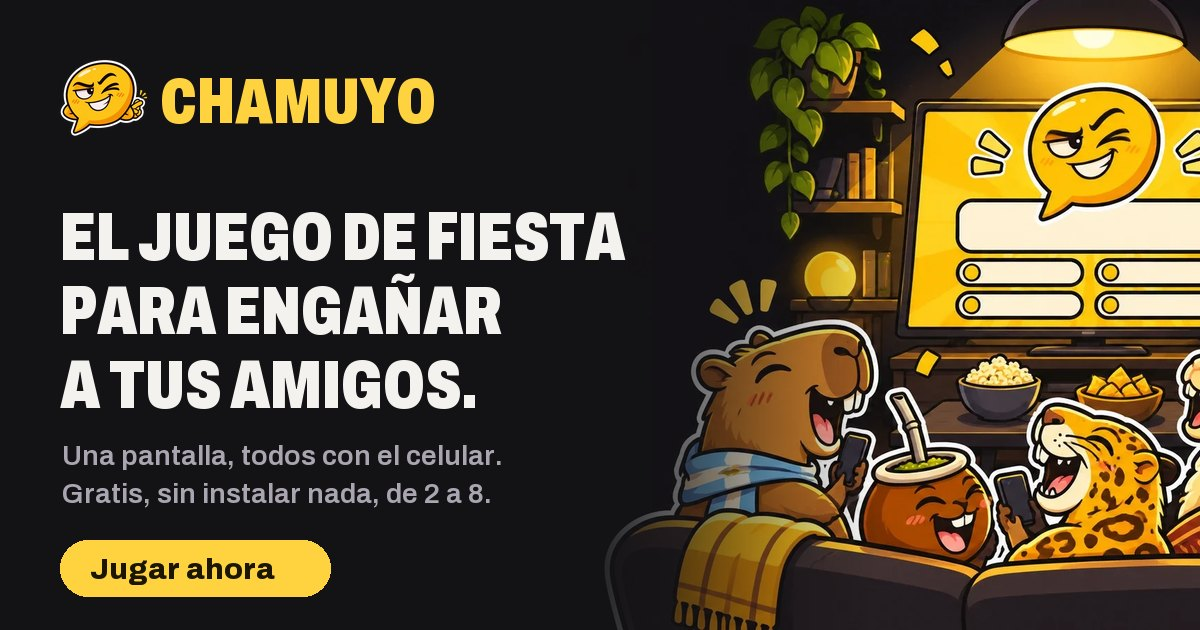
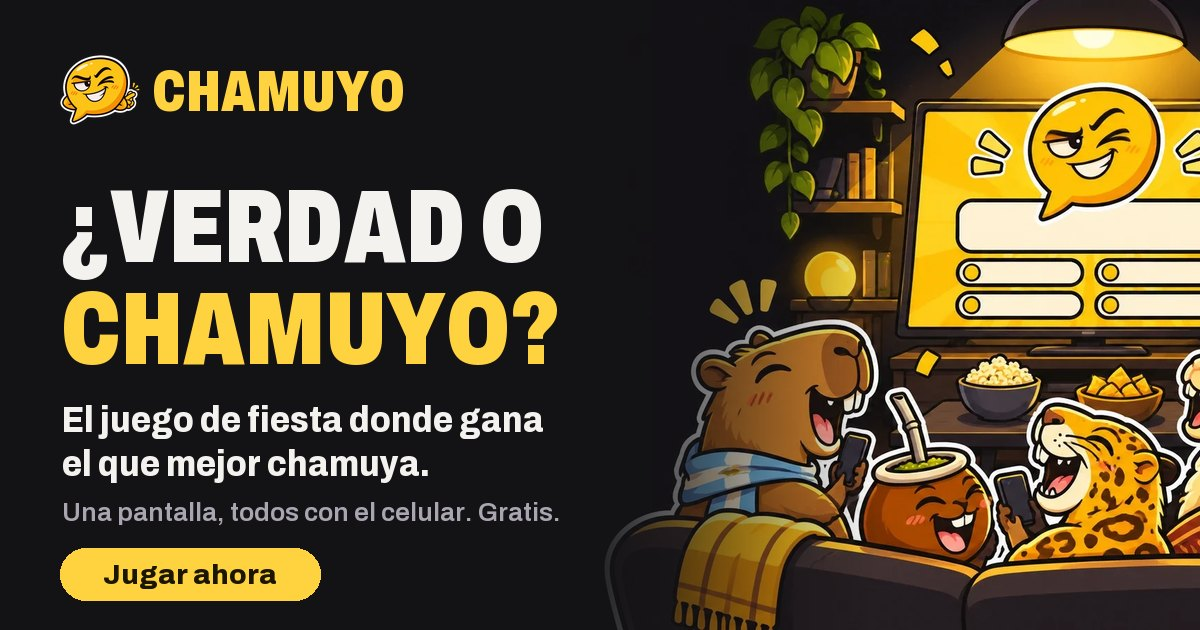
Nuevo lema: ¿verdad o chamuyo? y enlaces a Instagram

Changed region(s): [[0.0308, 0.3016, 0.5242, 0.9651], [0.0308, 0.0905, 0.37, 0.2111]]

diff --git a/src/app/i18n.ts b/src/app/i18n.ts
@@ -3,24 +3,26 @@ import { computed, signal } from '@angular/core';
 export type Idioma = 'es' | 'en';
 
 const es = {
-  lema: 'El juego de fiesta para engañar a tus amigos.',
+  lema: '¿Verdad o chamuyo?',
+  sublema: 'El juego de fiesta donde gana el que mejor chamuya.',
   bajada: 'Una pantalla para todos y cada uno juega desde su celular. Sin instalar nada, de 2 a 8 personas.',
   crearSala: 'Crear sala',
   tengoCodigo: 'Tengo un código',
   comoSeJuega: 'Cómo se juega',
   paso1: 'Abrí una sala en la tele o la compu. También funciona compartiendo pantalla en una videollamada.',
   paso2: 'Cada uno entra desde su celular con el código o el QR.',
-  paso3: 'Escribí mentiras creíbles, votá la verdad y reíte de las respuestas de los demás.',
+  paso3: 'Inventá respuestas creíbles, encontrá la verdad y reíte con las ocurrencias de los demás.',
   modoChamuyo: 'Chamuyo',
-  modoChamuyoDesc: 'Un dato real con un hueco. Inventá una respuesta falsa que engañe a todos y encontrá la verdadera.',
+  modoChamuyoDesc: 'Un dato real con un hueco. Inventá una respuesta que parezca verdad y encontrá la verdadera.',
   modoOcurrencias: 'Ocurrencias',
   modoOcurrenciasDesc: 'Una consigna, todos responden y se vota la más graciosa.',
   modoMixto: 'Mixto',
   modoMixtoDesc: 'Una ronda de cada, alternadas.',
   codigoAbierto: 'Código abierto',
+  seguinos: 'Seguinos en Instagram',
   elencoTitulo: 'Elegí tu chamuyero',
   elencoBajada: 'Tocá uno para ver la cara que pone cuando lo engañan.',
-  cierre: 'Esta noche, el que chamuya mejor gana.',
+  cierre: '¿Quién chamuya mejor en tu grupo?',
   hechoPor: 'Hecho por',
   // Anfitrión
   abriendo: 'Abriendo la sala…',
@@ -96,24 +98,26 @@ const es = {
 };
 
 const en: typeof es = {
-  lema: 'The party game where you fool your friends.',
+  lema: 'Truth or bluff?',
+  sublema: 'The party game where the best bluffer wins.',
   bajada: 'One shared screen, everyone plays on their phone. Nothing to install, 2 to 8 players.',
   crearSala: 'Create room',
   tengoCodigo: 'I have a code',
   comoSeJuega: 'How to play',
   paso1: 'Open a room on a TV or computer. Sharing your screen on a video call works too.',
   paso2: 'Everyone joins from their phone with the code or the QR.',
-  paso3: 'Write believable lies, vote for the truth and laugh at everyone else’s answers.',
+  paso3: 'Make up believable answers, find the truth and laugh at everyone else’s ideas.',
   modoChamuyo: 'Chamuyo',
-  modoChamuyoDesc: 'A real fact with a blank. Make up a fake answer that fools everyone, then find the real one.',
+  modoChamuyoDesc: 'A real fact with a blank. Make up an answer that sounds true, then find the real one.',
   modoOcurrencias: 'Wisecracks',
   modoOcurrenciasDesc: 'One prompt, everyone answers, vote for the funniest.',
   modoMixto: 'Mixed',
   modoMixtoDesc: 'One round of each, taking turns.',
   codigoAbierto: 'Open source',
+  seguinos: 'Follow us on Instagram',
   elencoTitulo: 'Pick your liar',
   elencoBajada: 'Tap one to see the face it makes when it gets fooled.',
-  cierre: 'Tonight, the best liar wins.',
+  cierre: 'Who is the best bluffer in your group?',
   hechoPor: 'Made by',
   abriendo: 'Opening the room…',
   entraEn: 'On your phone, go to',

diff --git a/src/index.html b/src/index.html
@@ -2,14 +2,14 @@
 <html lang="es">
 <head>
   <meta charset="utf-8">
-  <title>Chamuyo · El juego de fiesta para engañar a tus amigos</title>
+  <title>Chamuyo · ¿Verdad o chamuyo? El juego de fiesta</title>
   <base href="/">
   <meta name="viewport" content="width=device-width, initial-scale=1, viewport-fit=cover">
-  <meta name="description" content="Juego de fiesta gratis en el navegador: una pantalla para todos y cada uno juega desde su celular. Inventá mentiras, encontrá la verdad. De 2 a 8 personas, en español e inglés.">
+  <meta name="description" content="¿Verdad o chamuyo? El juego de fiesta donde gana el que mejor chamuya: una pantalla para todos y cada uno juega desde su celular. Gratis, sin instalar nada, de 2 a 8 personas, en español e inglés.">
   <meta name="theme-color" content="#131215">
   <meta property="og:type" content="website">
-  <meta property="og:title" content="Chamuyo · El juego de fiesta para engañar a tus amigos">
-  <meta property="og:description" content="Una pantalla, todos con el celular. Inventá mentiras creíbles y encontrá la verdad. Gratis y sin instalar nada.">
+  <meta property="og:title" content="Chamuyo · ¿Verdad o chamuyo?">
+  <meta property="og:description" content="El juego de fiesta donde gana el que mejor chamuya. Una pantalla, todos con el celular. Gratis y sin instalar nada.">
   <meta property="og:image" content="https://nahuelbenitezs.github.io/chamuyo/og.jpg">
   <meta property="og:url" content="https://nahuelbenitezs.github.io/chamuyo/">
   <meta name="twitter:card" content="summary_large_image">

diff --git a/src/app/pantallas/inicio.html b/src/app/pantallas/inicio.html
@@ -8,6 +8,7 @@
       </a>
       <nav class="nav">
         <a href="#como">{{ t().comoSeJuega }}</a>
+        <a href="https://www.instagram.com/chamuyo.juego/" target="_blank" rel="noopener" aria-label="Instagram @chamuyo.juego"><i class="ph-bold ph-instagram-logo"></i> Instagram</a>
         <a href="https://github.com/nahuelbenitezs/chamuyo" target="_blank" rel="noopener"><i class="ph-bold ph-github-logo"></i> GitHub</a>
         <button class="icono-boton" type="button" (click)="idiomaContrario()" [attr.aria-label]="idioma() === 'es' ? 'English' : 'Español'">
           <span class="idioma">{{ idioma() === 'es' ? 'EN' : 'ES' }}</span>
@@ -16,6 +17,7 @@
     </header>
     <div class="texto">
       <h1 class="titular">{{ t().lema }}</h1>
+      <p class="sublema">{{ t().sublema }}</p>
       <p class="bajada">{{ t().bajada }}</p>
       <div class="ctas">
         <button class="boton grande" type="button" (click)="crear.emit()"><i class="ph-bold ph-television-simple"></i> {{ t().crearSala }}</button>
@@ -90,6 +92,7 @@
   </section>
 
   <footer class="pie">
+    <span>{{ t().seguinos }} · <a href="https://www.instagram.com/chamuyo.juego/" target="_blank" rel="noopener">@chamuyo.juego</a></span>
     <span>{{ t().codigoAbierto }} · <a href="https://github.com/nahuelbenitezs/chamuyo" target="_blank" rel="noopener">github.com/nahuelbenitezs/chamuyo</a></span>
     <span>{{ t().hechoPor }} <a href="https://github.com/nahuelbenitezs" target="_blank" rel="noopener">Nahuel Benítez</a></span>
   </footer>

diff --git a/src/app/pantallas/inicio.css b/src/app/pantallas/inicio.css
@@ -101,8 +101,19 @@
   animation: entrar 0.7s var(--ease) both;
 }
 
+.sublema {
+  margin: 0.9rem 0 0;
+  max-width: 24ch;
+  font-size: clamp(1.4rem, 2.1vw, 1.9rem);
+  font-weight: 800;
+  font-stretch: 85%;
+  line-height: 1.15;
+  color: var(--acento);
+  animation: entrar 0.7s var(--ease) 0.05s both;
+}
+
 .bajada {
-  margin: 1.25rem 0 2rem;
+  margin: 1rem 0 2rem;
   max-width: 40ch;
   font-size: clamp(1.1rem, 1.4vw, 1.3rem);
   color: var(--tenue);

diff --git a/src/app/juego/tarjeta.ts b/src/app/juego/tarjeta.ts
@@ -168,6 +168,9 @@ export async function dibujarTarjeta(r: Resumen): Promise<Blob> {
   ctx.fillText(textos.jugaGratis, W / 2, H - 186);
   fuente(ctx, 900, 46, true);
   ctx.fillText(URL_JUEGO, W / 2, H - 134);
+  ctx.fillStyle = COLOR.tenue;
+  fuente(ctx, 700, 32);
+  ctx.fillText('Instagram @chamuyo.juego', W / 2, H - 48);
 
   return new Promise((ok, mal) => lienzo.toBlob((b) => (b ? ok(b) : mal(new Error('sin imagen'))), 'image/png'));
 }

diff --git a/README.md b/README.md
@@ -1,10 +1,10 @@
 <div align="center">
 
-<a href="https://nahuelbenitezs.github.io/chamuyo/"><img src="public/og.jpg" alt="Chamuyo: the party game where you fool your friends" width="100%" /></a>
+<a href="https://nahuelbenitezs.github.io/chamuyo/"><img src="public/og.jpg" alt="Chamuyo: truth or bluff? The party game where the best bluffer wins" width="100%" /></a>
 
 # Chamuyo
 
-**The party game where you fool your friends.**
+**Truth or bluff?** The party game where the best bluffer wins.
 One shared screen, everyone plays on their phone. 2 to 8 players, in English or Spanish. Free, nothing to install, no accounts.
 
 **[▶ Play now](https://nahuelbenitezs.github.io/chamuyo/)** · [Español](#español)
@@ -15,7 +15,7 @@ One shared screen, everyone plays on their phone. 2 to 8 players, in English or 
 
 1. **Open a room** on a TV or a computer. Sharing your screen on a video call works too.
 2. **Join from your phone** by scanning the QR code or typing the 4-letter code.
-3. **Fool everyone.** Write believable lies, vote for the truth and laugh at everyone else's answers.
+3. **Bluff your way to the top.** Make up believable answers, find the truth and laugh at everyone else's ideas.
 
 ### Modes
 
@@ -50,13 +50,13 @@ All the content lives in [`src/app/contenido`](src/app/contenido), one file per 
 
 ## License
 
-[MIT](LICENSE). Made by [Nahuel Benítez](https://github.com/nahuelbenitezs).
+[MIT](LICENSE). Made by [Nahuel Benítez](https://github.com/nahuelbenitezs). Follow the game on [Instagram](https://www.instagram.com/chamuyo.juego/).
 
 ---
 
 ## Español
 
-**El juego de fiesta para engañar a tus amigos.** Una pantalla para todos y cada uno juega desde su celular. De 2 a 8 personas, en español o inglés. Gratis, sin instalar nada y sin cuentas.
+**¿Verdad o chamuyo?** El juego de fiesta donde gana el que mejor chamuya. Una pantalla para todos y cada uno juega desde su celular. De 2 a 8 personas, en español o inglés. Gratis, sin instalar nada y sin cuentas.
 
 **[▶ Jugar ahora](https://nahuelbenitezs.github.io/chamuyo/)**
 
@@ -64,7 +64,7 @@ All the content lives in [`src/app/contenido`](src/app/contenido), one file per 
 
 1. **Abrí una sala** en la tele o la compu. También funciona compartiendo pantalla en una videollamada.
 2. **Entrá desde el celular** escaneando el QR o con el código de 4 letras.
-3. **Chamuyá.** Escribí mentiras creíbles, votá la verdad y reíte de las respuestas de los demás.
+3. **Chamuyá.** Inventá respuestas creíbles, encontrá la verdad y reíte con las ocurrencias de los demás.
 
 ### Modos
 
